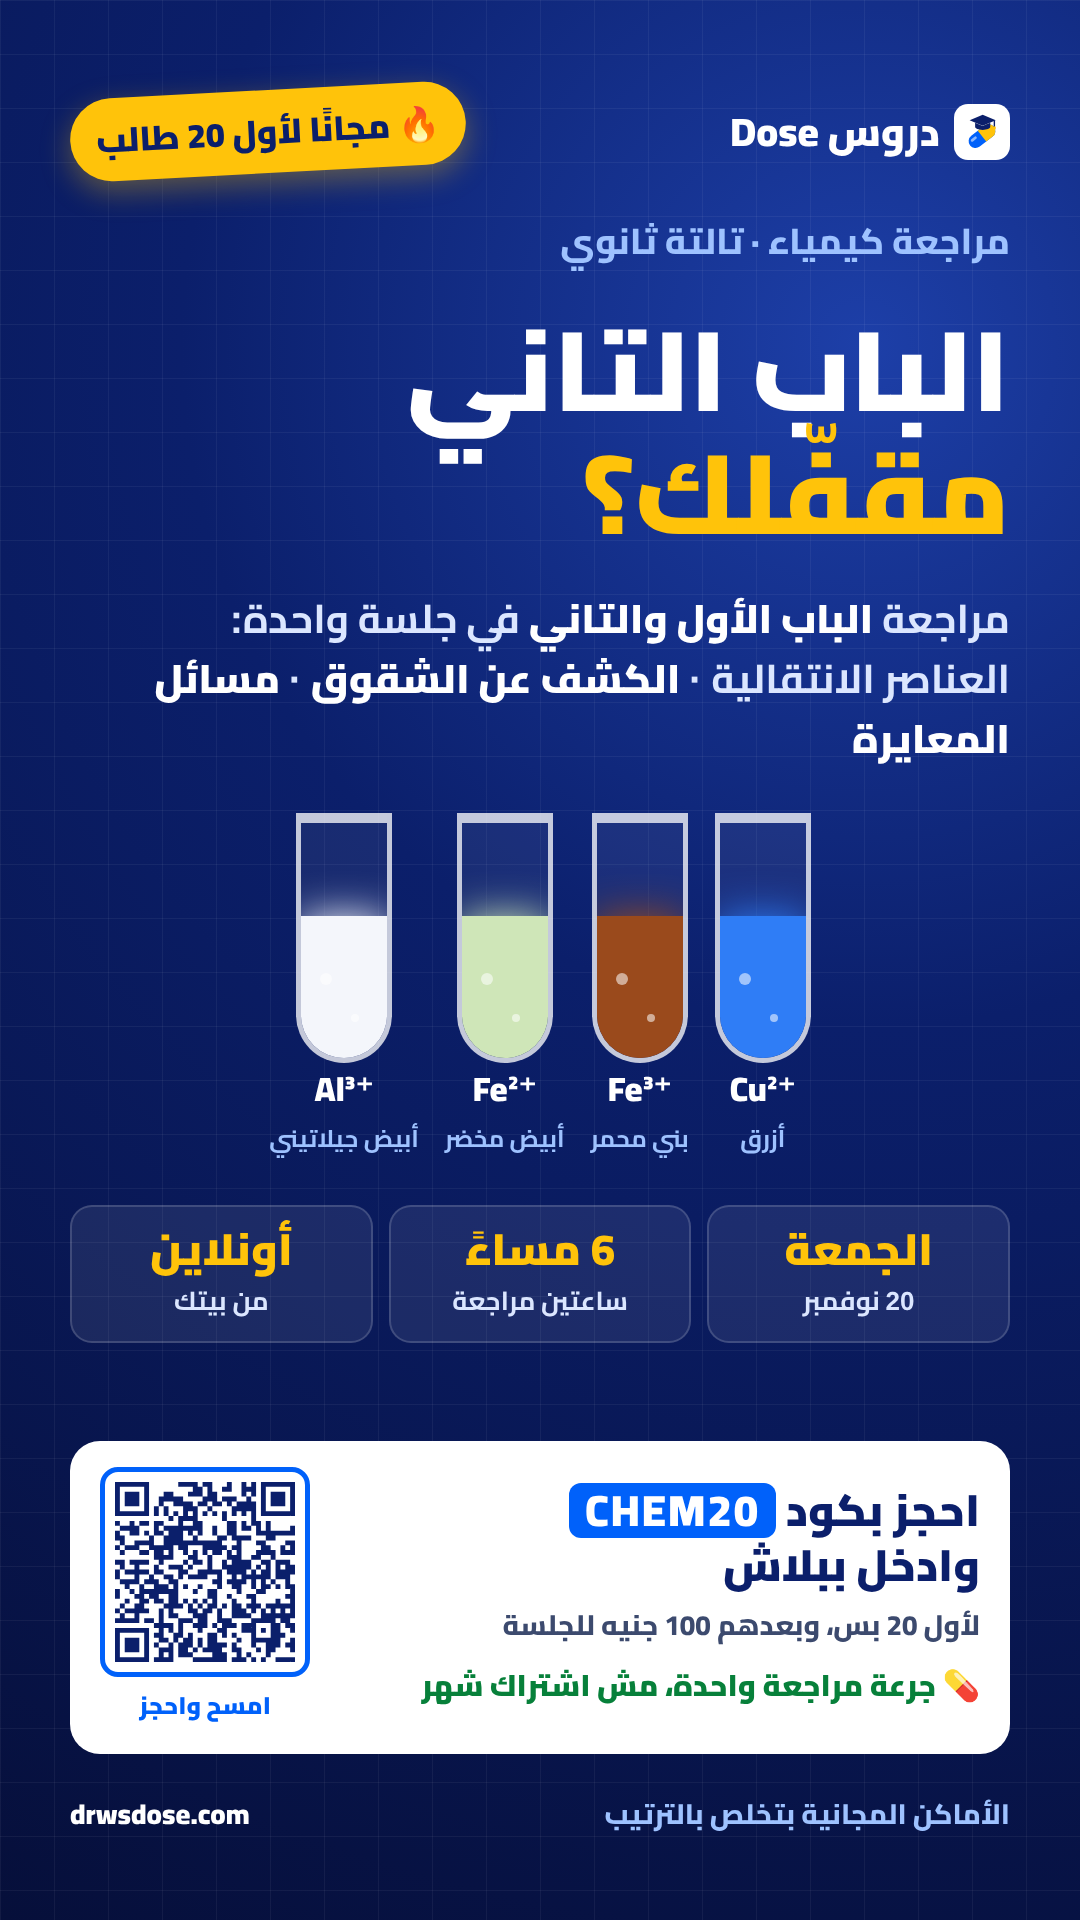
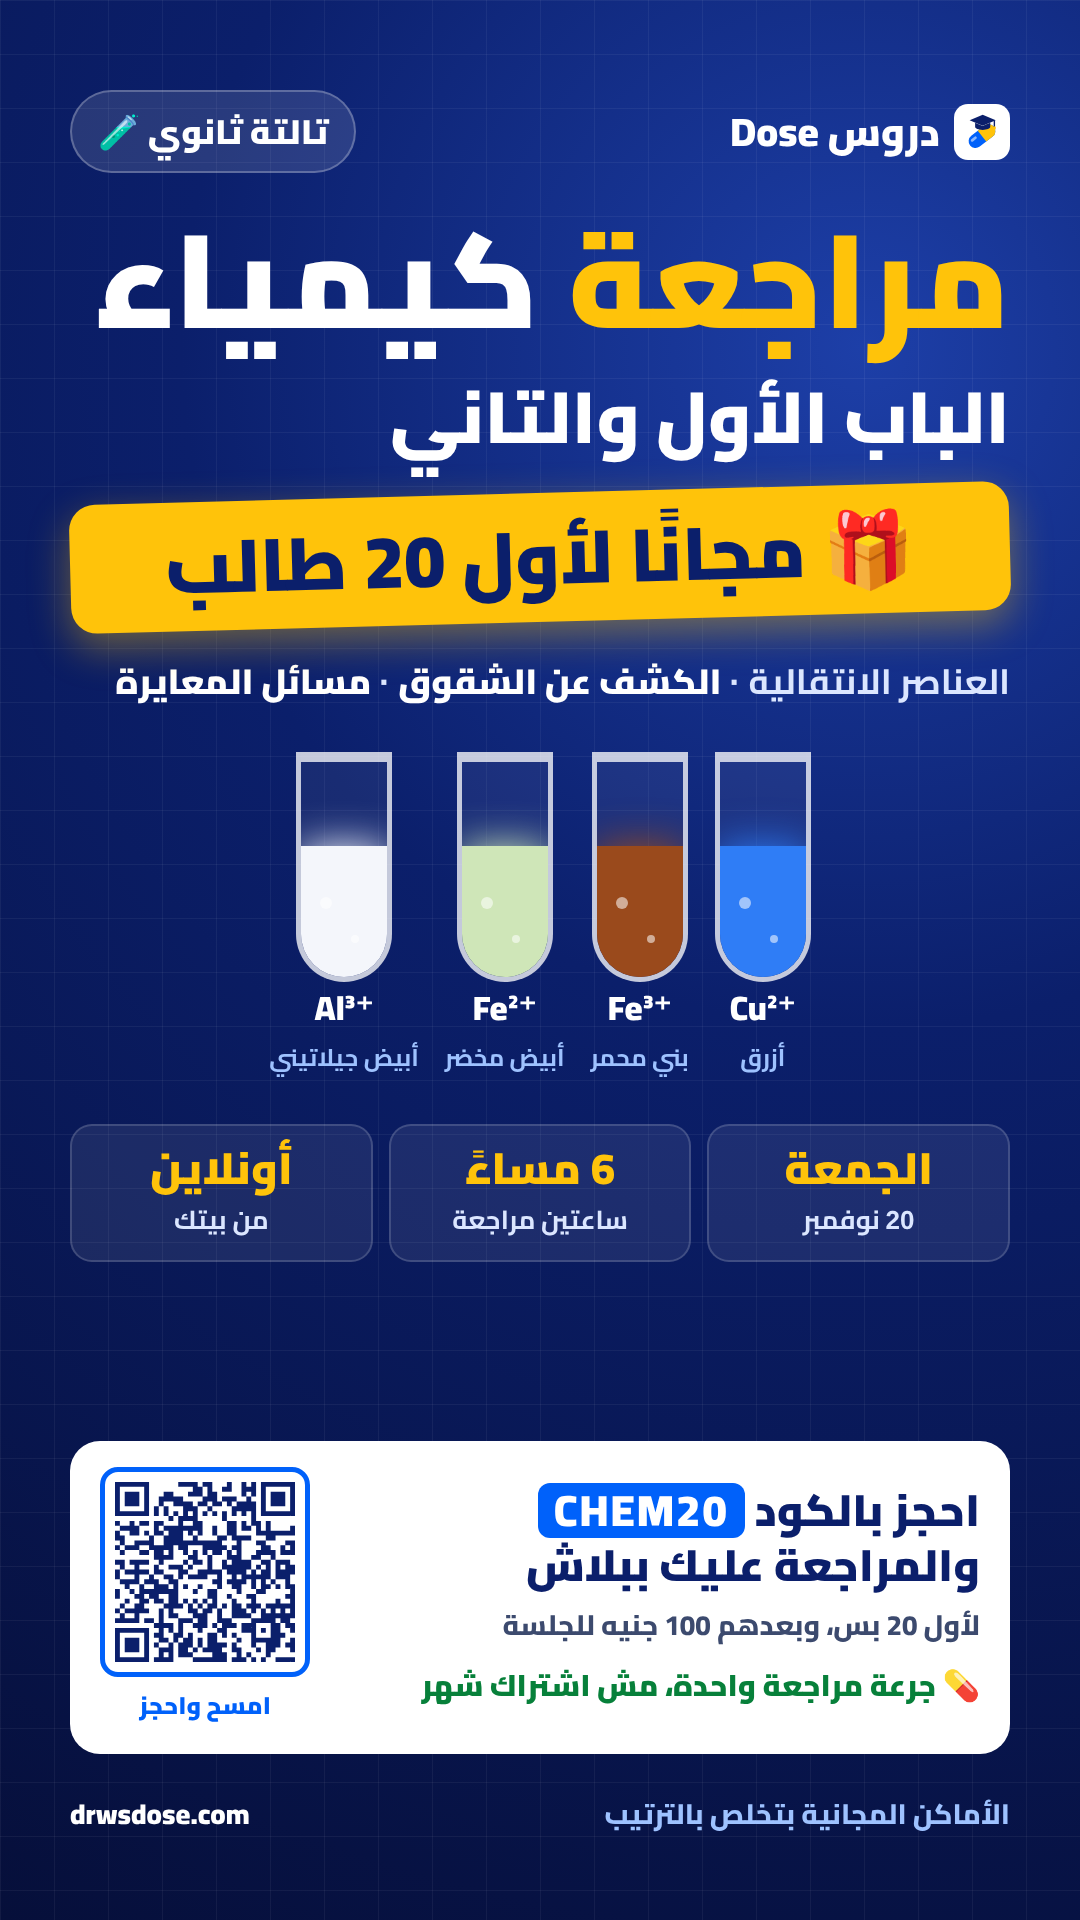
Chemistry review posters v2: 'مراجعة' and the free-20 offer up front
Claude-Session: https://claude.ai/code/session_01PqXfUFUeuu3X2isE3Jtabv

diff --git a/marketing/campaigns/chem-review-nov20/poster-story.html b/marketing/campaigns/chem-review-nov20/poster-story.html
@@ -14,14 +14,17 @@ body{font-family:Cairo,sans-serif;color:#fff;background:radial-gradient(circle a
 .brand{display:flex;align-items:center;gap:14px;font-weight:900;font-size:40px}
 .brand .m{width:56px;height:56px;background:#fff;border-radius:14px;padding:6px} .brand .m svg{width:100%;height:100%;display:block}
 .free{background:#FFC30A;color:#0B1F6B;font-weight:900;font-size:34px;padding:10px 26px;border-radius:999px;transform:rotate(-3deg);box-shadow:0 10px 30px rgba(255,195,10,.35)}
+.grade{background:rgba(255,255,255,.12);border:2px solid rgba(255,255,255,.25);font-weight:900;font-size:34px;padding:8px 26px;border-radius:999px}
+.h2{font-weight:900;font-size:72px;line-height:1.15;color:#fff;margin-top:-10px}
+.ribbon{align-self:stretch;text-align:center;background:#FFC30A;color:#0B1F6B;font-weight:900;font-size:74px;line-height:1.25;padding:18px 10px;border-radius:26px;transform:rotate(-1.5deg);box-shadow:0 14px 40px rgba(255,195,10,.4)}
 .kicker{font-weight:800;font-size:36px;color:#9ec2ff}
-.h1{font-weight:900;font-size:112px;line-height:1.1}
+.h1{font-weight:900;font-size:132px;line-height:1.1}
 .h1 .y{color:#FFC30A}
-.sub{font-weight:700;font-size:40px;line-height:1.5;color:#dbe6ff}
+.sub{font-weight:700;font-size:35px;line-height:1.5;color:#dbe6ff}
 .sub b{color:#fff}
 .tubes{display:flex;gap:26px;justify-content:center;margin:10px 0}
 .tube{display:flex;flex-direction:column;align-items:center;gap:6px}
-.glass{position:relative;width:96px;height:250px;border:5px solid rgba(255,255,255,.75);border-top:none;border-radius:0 0 50px 50px;overflow:hidden;background:rgba(255,255,255,.06)}
+.glass{position:relative;width:96px;height:230px;border:5px solid rgba(255,255,255,.75);border-top:none;border-radius:0 0 50px 50px;overflow:hidden;background:rgba(255,255,255,.06)}
 .glass:before{content:"";position:absolute;top:0;left:-9px;right:-9px;height:10px;background:rgba(255,255,255,.75);border-radius:6px}
 .liq{position:absolute;inset:auto 0 0 0;height:58%;background:var(--c);box-shadow:0 0 40px var(--c)}
 .bub{position:absolute;width:12px;height:12px;border-radius:50%;background:rgba(255,255,255,.55)} .b1{left:22%;bottom:30%} .b2{left:58%;bottom:15%;width:8px;height:8px}
@@ -54,10 +57,11 @@ body{font-family:Cairo,sans-serif;color:#fff;background:radial-gradient(circle a
   <path d="M50 16v8.5" stroke="#0B1F6B" stroke-width="2" stroke-linecap="round"/>
   <circle cx="50" cy="26" r="2.2" fill="#FFC30A"/>
 </svg>
-</span>دروس Dose</div><div class="free">🔥 مجانًا لأول 20 طالب</div></div>
-<div class="kicker">مراجعة كيمياء · تالتة ثانوي</div>
-<div class="h1">الباب التاني<br/><span class="y">مقفّلك؟</span></div>
-<div class="sub">مراجعة <b>الباب الأول والتاني</b> في جلسة واحدة:<br/>العناصر الانتقالية · <b>الكشف عن الشقوق</b> · <b>مسائل المعايرة</b></div>
+</span>دروس Dose</div><div class="grade">تالتة ثانوي 🧪</div></div>
+<div class="h1"><span class="y">مراجعة</span> كيمياء</div>
+<div class="h2">الباب الأول والتاني</div>
+<div class="ribbon">🎁 مجانًا لأول 20 طالب</div>
+<div class="sub">العناصر الانتقالية · <b>الكشف عن الشقوق</b> · <b>مسائل المعايرة</b></div>
 <div class="tubes"><div class="tube" style="--c:#2f7df6;--d:0">
   <div class="glass"><div class="liq"></div><div class="bub b1"></div><div class="bub b2"></div></div>
   <b dir="ltr">Cu²⁺</b><span>أزرق</span></div><div class="tube" style="--c:#9a4a1c;--d:1">
@@ -69,7 +73,7 @@ body{font-family:Cairo,sans-serif;color:#fff;background:radial-gradient(circle a
   <b dir="ltr">Al³⁺</b><span>أبيض جيلاتيني</span></div></div>
 <div class="when"><div><b>الجمعة</b><span>20 نوفمبر</span></div><div><b>6 مساءً</b><span>ساعتين مراجعة</span></div><div><b>أونلاين</b><span>من بيتك</span></div></div>
 <div class="offer"><div class="t">
-  <div class="l1">احجز بكود <span class="code">CHEM20</span><br/>وادخل ببلاش</div>
+  <div class="l1">احجز بالكود <span class="code">CHEM20</span><br/>والمراجعة عليك ببلاش</div>
   <div class="l2">لأول 20 بس، وبعدهم 100 جنيه للجلسة</div>
   <div class="l3">💊 جرعة مراجعة واحدة، مش اشتراك شهر</div>
 </div><div class="qrw"><div class="qr">

diff --git a/marketing/campaigns/chem-review-nov20/poster-feed.html b/marketing/campaigns/chem-review-nov20/poster-feed.html
@@ -14,14 +14,17 @@ body{font-family:Cairo,sans-serif;color:#fff;background:radial-gradient(circle a
 .brand{display:flex;align-items:center;gap:14px;font-weight:900;font-size:40px}
 .brand .m{width:56px;height:56px;background:#fff;border-radius:14px;padding:6px} .brand .m svg{width:100%;height:100%;display:block}
 .free{background:#FFC30A;color:#0B1F6B;font-weight:900;font-size:34px;padding:10px 26px;border-radius:999px;transform:rotate(-3deg);box-shadow:0 10px 30px rgba(255,195,10,.35)}
+.grade{background:rgba(255,255,255,.12);border:2px solid rgba(255,255,255,.25);font-weight:900;font-size:34px;padding:8px 26px;border-radius:999px}
+.h2{font-weight:900;font-size:62px;line-height:1.15;color:#fff;margin-top:-10px}
+.ribbon{align-self:stretch;text-align:center;background:#FFC30A;color:#0B1F6B;font-weight:900;font-size:62px;line-height:1.25;padding:12px 10px;border-radius:26px;transform:rotate(-1.5deg);box-shadow:0 14px 40px rgba(255,195,10,.4)}
 .kicker{font-weight:800;font-size:36px;color:#9ec2ff}
-.h1{font-weight:900;font-size:92px;line-height:1.1}
+.h1{font-weight:900;font-size:112px;line-height:1.1}
 .h1 .y{color:#FFC30A}
 .sub{font-weight:700;font-size:35px;line-height:1.5;color:#dbe6ff}
 .sub b{color:#fff}
 .tubes{display:flex;gap:26px;justify-content:center;margin:0}
 .tube{display:flex;flex-direction:column;align-items:center;gap:6px}
-.glass{position:relative;width:78px;height:150px;border:5px solid rgba(255,255,255,.75);border-top:none;border-radius:0 0 50px 50px;overflow:hidden;background:rgba(255,255,255,.06)}
+.glass{position:relative;width:78px;height:120px;border:5px solid rgba(255,255,255,.75);border-top:none;border-radius:0 0 50px 50px;overflow:hidden;background:rgba(255,255,255,.06)}
 .glass:before{content:"";position:absolute;top:0;left:-9px;right:-9px;height:10px;background:rgba(255,255,255,.75);border-radius:6px}
 .liq{position:absolute;inset:auto 0 0 0;height:58%;background:var(--c);box-shadow:0 0 40px var(--c)}
 .bub{position:absolute;width:12px;height:12px;border-radius:50%;background:rgba(255,255,255,.55)} .b1{left:22%;bottom:30%} .b2{left:58%;bottom:15%;width:8px;height:8px}
@@ -54,10 +57,11 @@ body{font-family:Cairo,sans-serif;color:#fff;background:radial-gradient(circle a
   <path d="M50 16v8.5" stroke="#0B1F6B" stroke-width="2" stroke-linecap="round"/>
   <circle cx="50" cy="26" r="2.2" fill="#FFC30A"/>
 </svg>
-</span>دروس Dose</div><div class="free">🔥 مجانًا لأول 20 طالب</div></div>
-<div class="kicker">مراجعة كيمياء · تالتة ثانوي</div>
-<div class="h1">الباب التاني<br/><span class="y">مقفّلك؟</span></div>
-<div class="sub">مراجعة <b>الباب الأول والتاني</b> في جلسة واحدة:<br/>العناصر الانتقالية · <b>الكشف عن الشقوق</b> · <b>مسائل المعايرة</b></div>
+</span>دروس Dose</div><div class="grade">تالتة ثانوي 🧪</div></div>
+<div class="h1"><span class="y">مراجعة</span> كيمياء</div>
+<div class="h2">الباب الأول والتاني</div>
+<div class="ribbon">🎁 مجانًا لأول 20 طالب</div>
+<div class="sub">العناصر الانتقالية · <b>الكشف عن الشقوق</b> · <b>مسائل المعايرة</b></div>
 <div class="tubes"><div class="tube" style="--c:#2f7df6;--d:0">
   <div class="glass"><div class="liq"></div><div class="bub b1"></div><div class="bub b2"></div></div>
   <b dir="ltr">Cu²⁺</b><span>أزرق</span></div><div class="tube" style="--c:#9a4a1c;--d:1">
@@ -69,7 +73,7 @@ body{font-family:Cairo,sans-serif;color:#fff;background:radial-gradient(circle a
   <b dir="ltr">Al³⁺</b><span>أبيض جيلاتيني</span></div></div>
 <div class="when"><div><b>الجمعة</b><span>20 نوفمبر</span></div><div><b>6 مساءً</b><span>ساعتين مراجعة</span></div><div><b>أونلاين</b><span>من بيتك</span></div></div>
 <div class="offer"><div class="t">
-  <div class="l1">احجز بكود <span class="code">CHEM20</span><br/>وادخل ببلاش</div>
+  <div class="l1">احجز بالكود <span class="code">CHEM20</span><br/>والمراجعة عليك ببلاش</div>
   <div class="l2">لأول 20 بس، وبعدهم 100 جنيه للجلسة</div>
   <div class="l3">💊 جرعة مراجعة واحدة، مش اشتراك شهر</div>
 </div><div class="qrw"><div class="qr">

diff --git a/marketing/campaigns/chem-review-nov20/poster.py b/marketing/campaigns/chem-review-nov20/poster.py
@@ -35,14 +35,17 @@ body{{font-family:Cairo,sans-serif;color:#fff;background:radial-gradient(circle 
 .brand{{display:flex;align-items:center;gap:14px;font-weight:900;font-size:40px}}
 .brand .m{{width:56px;height:56px;background:#fff;border-radius:14px;padding:6px}} .brand .m svg{{width:100%;height:100%;display:block}}
 .free{{background:#FFC30A;color:#0B1F6B;font-weight:900;font-size:34px;padding:10px 26px;border-radius:999px;transform:rotate(-3deg);box-shadow:0 10px 30px rgba(255,195,10,.35)}}
+.grade{{background:rgba(255,255,255,.12);border:2px solid rgba(255,255,255,.25);font-weight:900;font-size:34px;padding:8px 26px;border-radius:999px}}
+.h2{{font-weight:900;font-size:{'72px' if story else '62px'};line-height:1.15;color:#fff;margin-top:-10px}}
+.ribbon{{align-self:stretch;text-align:center;background:#FFC30A;color:#0B1F6B;font-weight:900;font-size:{'74px' if story else '62px'};line-height:1.25;padding:{'18px 10px' if story else '12px 10px'};border-radius:26px;transform:rotate(-1.5deg);box-shadow:0 14px 40px rgba(255,195,10,.4)}}
 .kicker{{font-weight:800;font-size:36px;color:#9ec2ff}}
-.h1{{font-weight:900;font-size:{'112px' if story else '92px'};line-height:1.1}}
+.h1{{font-weight:900;font-size:{'132px' if story else '112px'};line-height:1.1}}
 .h1 .y{{color:#FFC30A}}
-.sub{{font-weight:700;font-size:{'40px' if story else '35px'};line-height:1.5;color:#dbe6ff}}
+.sub{{font-weight:700;font-size:{'35px' if story else '35px'};line-height:1.5;color:#dbe6ff}}
 .sub b{{color:#fff}}
 .tubes{{display:flex;gap:26px;justify-content:center;margin:{'10px 0' if story else '0'}}}
 .tube{{display:flex;flex-direction:column;align-items:center;gap:6px}}
-.glass{{position:relative;width:{'96px' if story else '78px'};height:{'250px' if story else '150px'};border:5px solid rgba(255,255,255,.75);border-top:none;border-radius:0 0 50px 50px;overflow:hidden;background:rgba(255,255,255,.06)}}
+.glass{{position:relative;width:{'96px' if story else '78px'};height:{'230px' if story else '120px'};border:5px solid rgba(255,255,255,.75);border-top:none;border-radius:0 0 50px 50px;overflow:hidden;background:rgba(255,255,255,.06)}}
 .glass:before{{content:"";position:absolute;top:0;left:-9px;right:-9px;height:10px;background:rgba(255,255,255,.75);border-radius:6px}}
 .liq{{position:absolute;inset:auto 0 0 0;height:58%;background:var(--c);box-shadow:0 0 40px var(--c)}}
 .bub{{position:absolute;width:12px;height:12px;border-radius:50%;background:rgba(255,255,255,.55)}} .b1{{left:22%;bottom:30%}} .b2{{left:58%;bottom:15%;width:8px;height:8px}}
@@ -63,14 +66,15 @@ body{{font-family:Cairo,sans-serif;color:#fff;background:radial-gradient(circle 
 .foot{{display:flex;justify-content:space-between;align-items:center;font-weight:800;font-size:28px;color:#9ec2ff}}
 .foot b{{color:#fff;direction:ltr}}
 </style></head><body><div class="grid"></div><div class="wrap">
-<div class="top"><div class="brand"><span class="m">{mark}</span>دروس Dose</div><div class="free">🔥 مجانًا لأول 20 طالب</div></div>
-<div class="kicker">مراجعة كيمياء · تالتة ثانوي</div>
-<div class="h1">الباب التاني<br/><span class="y">مقفّلك؟</span></div>
-<div class="sub">مراجعة <b>الباب الأول والتاني</b> في جلسة واحدة:<br/>العناصر الانتقالية · <b>الكشف عن الشقوق</b> · <b>مسائل المعايرة</b></div>
+<div class="top"><div class="brand"><span class="m">{mark}</span>دروس Dose</div><div class="grade">تالتة ثانوي 🧪</div></div>
+<div class="h1"><span class="y">مراجعة</span> كيمياء</div>
+<div class="h2">الباب الأول والتاني</div>
+<div class="ribbon">🎁 مجانًا لأول 20 طالب</div>
+<div class="sub">العناصر الانتقالية · <b>الكشف عن الشقوق</b> · <b>مسائل المعايرة</b></div>
 <div class="tubes">{tubes()}</div>
 <div class="when"><div><b>الجمعة</b><span>20 نوفمبر</span></div><div><b>6 مساءً</b><span>ساعتين مراجعة</span></div><div><b>أونلاين</b><span>من بيتك</span></div></div>
 <div class="offer"><div class="t">
-  <div class="l1">احجز بكود <span class="code">CHEM20</span><br/>وادخل ببلاش</div>
+  <div class="l1">احجز بالكود <span class="code">CHEM20</span><br/>والمراجعة عليك ببلاش</div>
   <div class="l2">لأول 20 بس، وبعدهم 100 جنيه للجلسة</div>
   <div class="l3">💊 جرعة مراجعة واحدة، مش اشتراك شهر</div>
 </div><div class="qrw"><div class="qr">{qr}</div><span>امسح واحجز</span></div></div>
